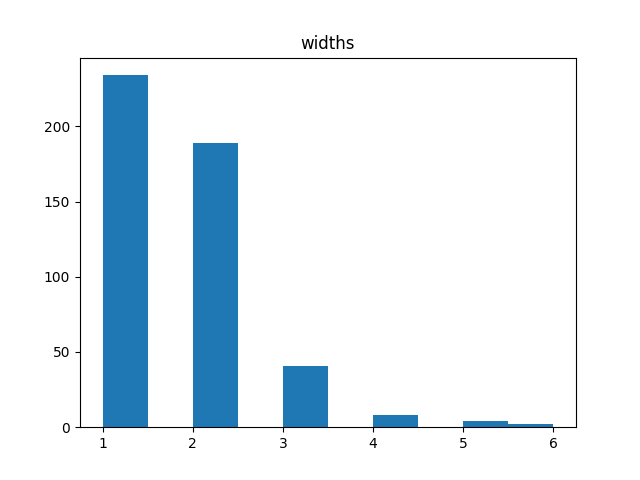
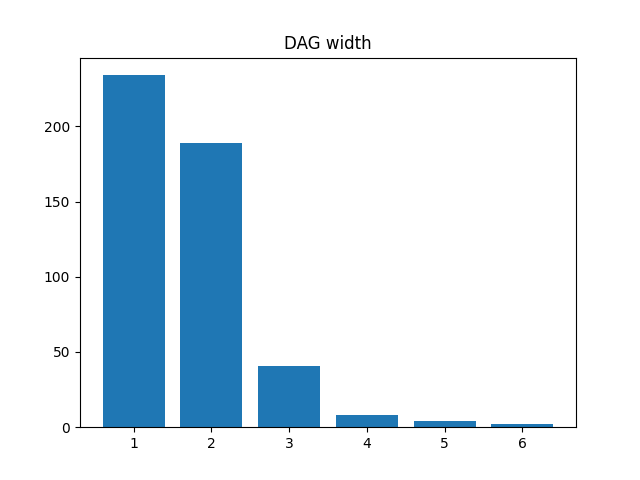
update analysis results

diff --git a/src/utils.py b/src/utils.py
@@ -1,0 +1,95 @@
+import matplotlib.pyplot as plt
+import networkx as nx
+
+
+class Step:
+    def __init__(self, sid: int, content: str) -> None:
+        self.sid = sid
+        self.content = content
+        self.children = []
+        self.parents = []
+
+    def add_child(self, child):
+        self.children.append(child)
+
+    def add_parent(self, parent):
+        self.parents.append(parent)
+
+    def __str__(self) -> str:
+        return f"{self.sid} - {self.content} - {len(self.children)} children - {len(self.parents)} parents"
+
+    def __repr__(self) -> str:
+        return f"<{self.sid} - {self.content}>"
+
+
+class Task:
+    def __init__(self, task, assumption) -> None:
+        self.task = task
+        self.assumption = assumption
+        self.steps = []
+        self._str2step = {}
+        self.root = Step(-1, "root")
+
+    def add_steps(self, steps: list[dict]):
+        for step in steps:
+            step_obj = Step(step["stepId"], step["step"])
+            self.steps.append(step_obj)
+            self._str2step[step["step"]] = step_obj
+
+    def build_dag(self, rels: list[dict]):
+        self.steps.sort(key=lambda x: x.sid)
+        for rel in rels:
+            before = rel["subtask1"]
+            after = rel["subtask2"]
+            if before != after:
+                self._str2step[before].add_child(self._str2step[after])
+                self._str2step[after].add_parent(self._str2step[before])
+        for step in self.steps:
+            if not step.parents:
+                step.add_parent(self.root)
+                self.root.add_child(step)
+
+    def get_dag_root(self):
+        return self.root
+
+    def get_dag_width(self):
+        root = self.get_dag_root()
+        queue = [root]
+        visited = set()
+        width = 0
+        while queue:
+            width = max(width, len(queue))
+            for _ in range(len(queue)):
+                cur = queue.pop(0)
+                for child in cur.children:
+                    if child not in queue and child not in visited:
+                        queue.append(child)
+                        visited.add(child)
+        return width
+
+    def get_dag_depth(self):
+        root = self.get_dag_root()
+        queue = [(root, 0)]
+        visited = set()
+        depth = 0
+        while queue:
+            cur, cur_depth = queue.pop(0)
+            depth = max(depth, cur_depth)
+            for child in cur.children:
+                if (child, cur_depth + 1) not in queue and child not in visited:
+                    queue.append((child, cur_depth + 1))
+                    visited.add(child)
+        return depth - 1
+
+    def visualize(self):
+        G = nx.DiGraph(name=f"{self.task} - {self.assumption}")
+        for step in self.steps:
+            G.add_node(step.content)
+        for step in self.steps:
+            for child in step.children:
+                G.add_edge(step.content, child.content)
+        nx.draw(G, with_labels=True)
+        plt.show()
+
+    def __str__(self) -> str:
+        return f"{self.task} - {self.assumption} - {len(self.steps)} steps"

diff --git a/src/analyze.py b/src/analyze.py
@@ -1,0 +1,72 @@
+from collections import Counter
+
+import matplotlib.pyplot as plt
+from rex.utils.io import load_jsonlines
+from tqdm import tqdm
+
+from src.utils import Task
+
+if __name__ == "__main__":
+    data = load_jsonlines("resources/test.jsonl")
+
+    tree_num = 0
+    step_num = []
+    for ins in data:
+        step_num.append(len(ins["substeps"]))
+        steps2id = {step["step"]: step["stepId"] for step in ins["substeps"]}
+        for rel in ins["dependencies"]:
+            before = rel["subtask1"]
+            after = rel["subtask2"]
+            if steps2id[before] > steps2id[after]:
+                tree_num += 1
+                break
+
+    print(len(data))
+    print("tree_num: ", tree_num)
+    print("step_num: ", Counter(step_num).most_common())
+
+    plt.hist(step_num)
+    plt.title("Number of steps per task")
+    plt.show()
+
+    no_assumption = 0
+    widths = []
+    depths = []
+    root_num = []
+    for ins in tqdm(data):
+        if not ins["assumptions"]:
+            no_assumption += 1
+            assumption = None
+        else:
+            assumption = ins["assumptions"][0]["assumption"]
+        task = Task(ins["task"], assumption)
+        task.add_steps(ins["substeps"])
+        task.build_dag(ins["dependencies"])
+        widths.append(task.get_dag_width())
+        depths.append(task.get_dag_depth())
+        root_num.append(len(task.root.children))
+        if len(task.steps) == 15:
+            print(task)
+            task.visualize()
+
+    print("no_assumption: ", no_assumption)
+    root_num = Counter(root_num).most_common()
+    print("root_num: ", root_num)
+    width_num = Counter(widths).most_common()
+    print("widths: ", width_num)
+    depth_num = Counter(depths).most_common()
+    print("depths: ", depth_num)
+
+    root_num.sort(key=lambda x: x[0])
+    plt.bar([x[0] for x in root_num], [x[1] for x in root_num])
+    plt.title("DAG Roots")
+    plt.show()
+
+    width_num.sort(key=lambda x: x[0])
+    plt.bar([x[0] for x in width_num], [x[1] for x in width_num])
+    plt.title("DAG width")
+    plt.show()
+
+    plt.hist(depths)
+    plt.title("DAG depths")
+    plt.show()

diff --git a/README.md b/README.md
@@ -1,4 +1,4 @@
-# 🛰 TaskLAMA
+# 🚩 TaskLAMA
 
 This is an **unoffical** implementation of TaskLAMA.
 
@@ -13,15 +13,25 @@ Huggingface data link: [[link]](https://huggingface.co/datasets/Spico/TaskLAMA) 
 
 Below lists the statistics of the test data.
 
-An complex example of "Task: ake coconut rice - Assumption: Making coconut rice with ghee. - 15 steps"
+- An complex example of "Task: ake coconut rice - Assumption: Making coconut rice with ghee. - 15 steps"
 
 ![Complex Example](./docs/figs/complex-example.png) .
 
-|#Task|#Task w/ line-order steps|#Task w/ DAG-order steps|
-|-:|-:|-:|
-|478|341|137|
+- Task statistics
+
+| #Task | #Task w/ line-order steps | #Task w/ DAG-order steps | #Task w/o Assumption |
+| ----: | ------------------------: | -----------------------: | -------------------: |
+|   478 |                       341 |                      137 |                   12 |
+
+- The number of steps in test set
 
 ![the number of steps in test set](./docs/figs/test-step-num-hist.png)
+
+- The number of DAG roots (initial steps)
+
+![the number of DAG roots (initial steps)](./docs/figs/test-dag-root.png)
+
+- The distribution of DAG width and depth
 
 ![the distribution of DAG width](./docs/figs/test-dag-width.png)
 
@@ -31,7 +41,7 @@ An complex example of "Task: ake coconut rice - Assumption: Making coconut rice 
 
 ```bibtex
 @misc{yuan2023tasklama,
-      title={TaskLAMA: Probing the Complex Task Understanding of Language Models}, 
+      title={TaskLAMA: Probing the Complex Task Understanding of Language Models},
       author={Quan Yuan and Mehran Kazemi and Xin Xu and Isaac Noble and Vaiva Imbrasaite and Deepak Ramachandran},
       year={2023},
       eprint={2308.15299},
